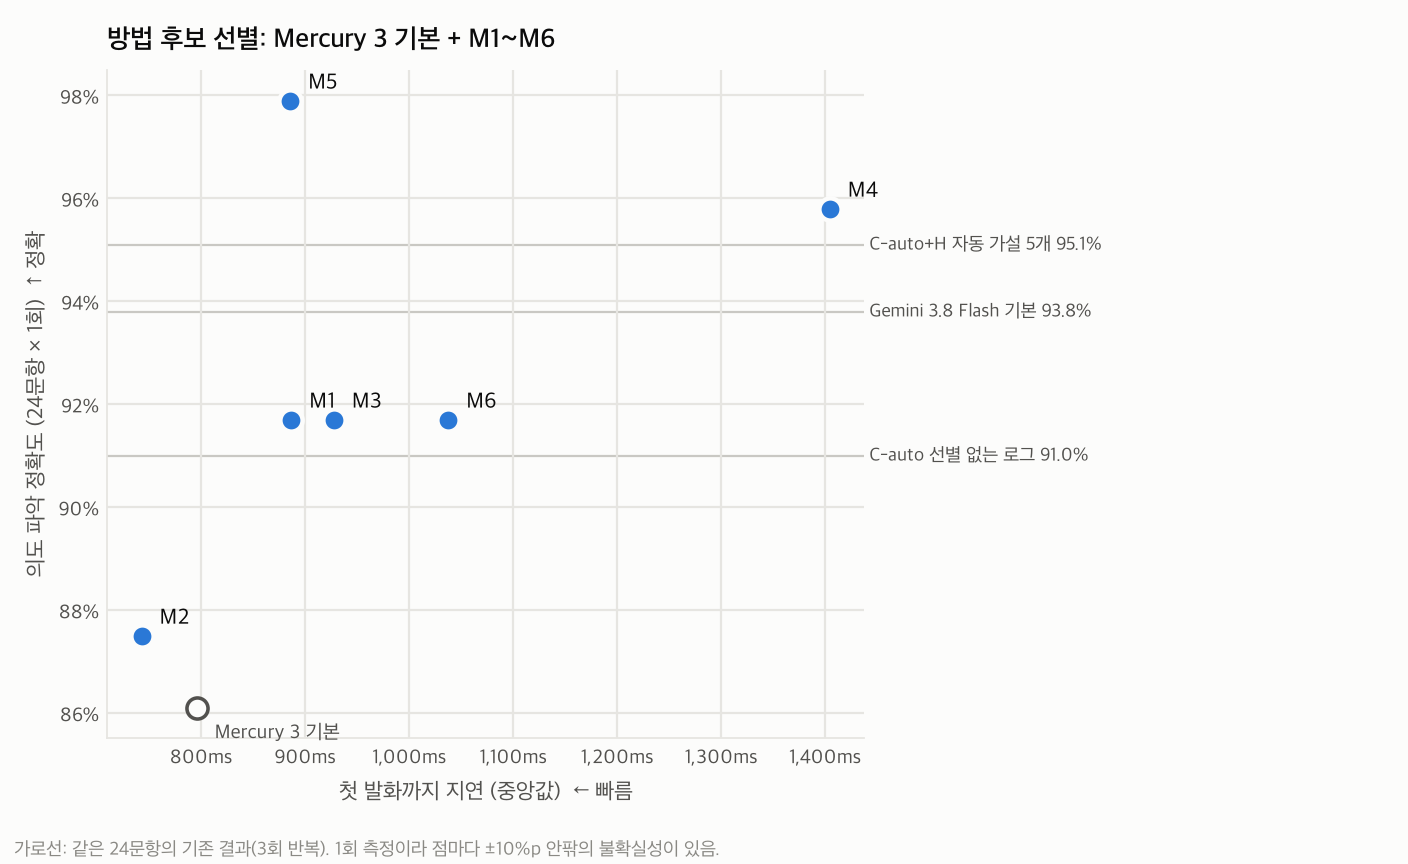
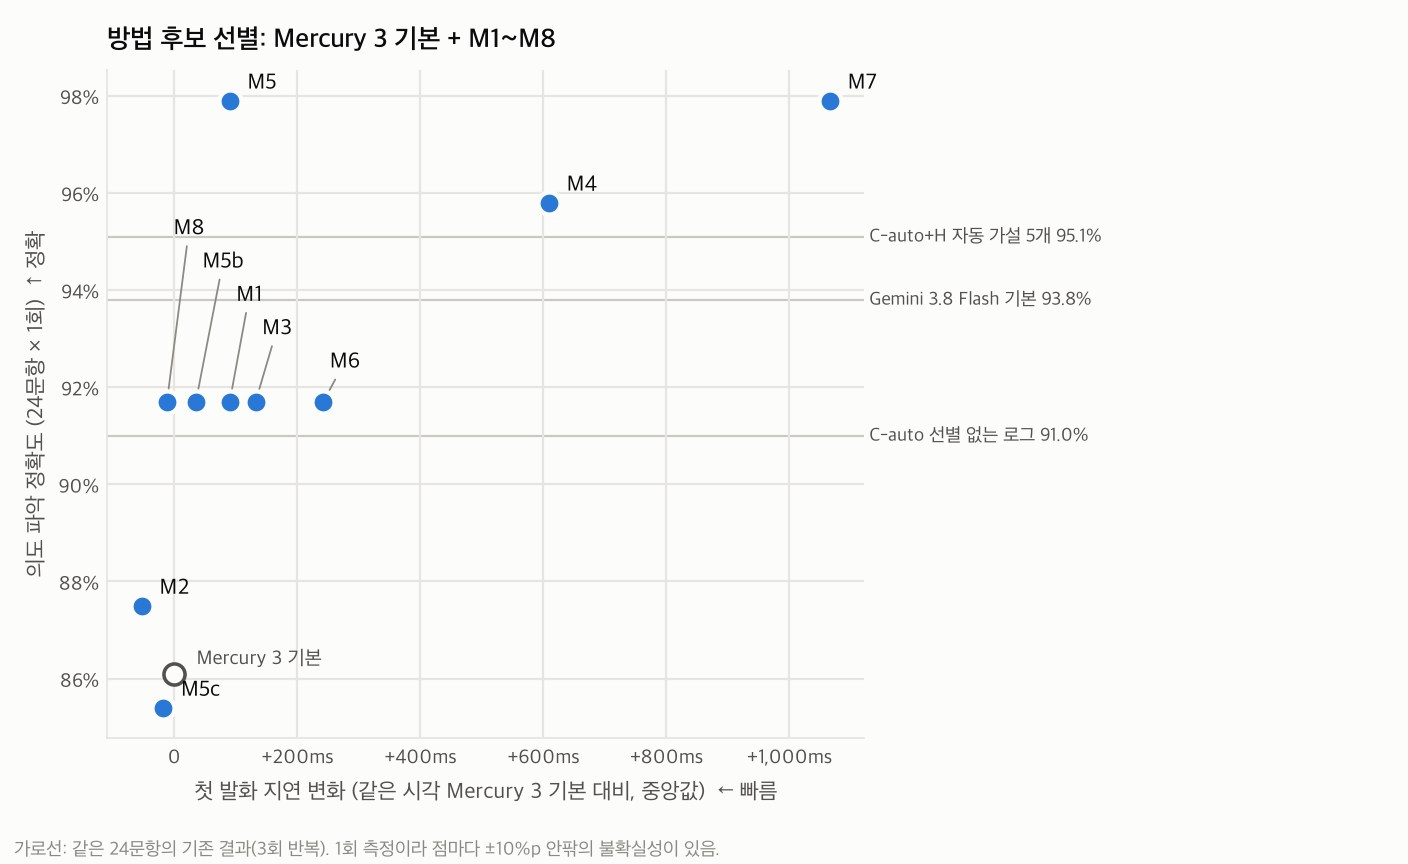
Add screening batch 2: ten hidden interpretations, silent interpretations, cheap and fast candidates for M5
Latency is compared with a same-run Mercury 3 control per batch.

diff --git a/vib/report.py b/vib/report.py
@@ -743,11 +743,19 @@ SCREEN_DESC = {
     "M4": ("발화 후 해석 3~5개 쓰고 골라 답하기 (숨김)", None, "발화 시점"),
     "M5": ("M1 후보 중 '이 의도면 이렇게 말했을까'로 고르기", "m1_situations", "발화 전 + 발화 시점"),
     "M6": ("발화 앞 절반으로 가설 5개 (Mercury 3 instant)", "m6_prefix", "말하는 중"),
+    "M7": ("발화 후 해석 10개 쓰고 골라 답하기 (숨김)", None, "발화 시점"),
+    "M8": ("발화 후 해석 10개를 속으로만 떠올리고 답하기", None, "발화 시점"),
+    "M5b": ("M2 후보(싼 생성기) 중 고르기", "m2_situations", "발화 전 + 발화 시점"),
+    "M5c": ("M6 후보(말하는 중, 빠른 생성기) 중 고르기", "m6_prefix", "말하는 중 + 발화 시점"),
 }
+HIDDEN_CODES = {"M4", "M7"}  # <해석> 을 닫지 않으면 형식 실패
+# 지연 대조군: 묶음마다 같은 실행에서 다시 잰 Mercury 3 기본 (results/screen/<폴더>/mercury.A1.jsonl)
+SCREEN_BATCH = {c: "latency_control" for c in ("M1", "M2", "M3", "M4", "M5", "M6")} | \
+    {c: "latency_control_b2" for c in ("M7", "M8", "M5b", "M5c")}
 
 
 def screening() -> None:
-    """4차 선별 실험(M1~M6, Mercury 3 기본, 24문항 × 1회)을 같은 24문항의 기존 기준선과 비교한다."""
+    """4차 선별 실험(M1~M8, Mercury 3 기본, 24문항 × 1회)을 같은 24문항의 기존 기준선과 비교한다."""
     sdir = RES / "screen"
     if not (sdir / "raw").exists():
         return
@@ -765,8 +773,11 @@ def screening() -> None:
             "C-auto+H 자동 가설 5개": "mercury.A1+CH", "Gemini 3.8 Flash 기본": "gemini38.A1"}
     ref_item = {name: per_item(RES / "judged" / f"{arm}.jsonl") for name, arm in refs.items()}
     base = ref_item["Mercury 3 기본"]
-    ctl = [r["e2e_first_ms"] for r in _jsonl(sdir / "latency_control" / "mercury.A1.jsonl") if not r.get("error")]
-    ctl_p50 = _pct(ctl, 0.5)
+    ctl_p50 = {}
+    for batch in sorted(set(SCREEN_BATCH.values())):
+        p = sdir / batch / "mercury.A1.jsonl"
+        if p.exists():
+            ctl_p50[batch] = _pct([r["e2e_first_ms"] for r in _jsonl(p) if not r.get("error")], 0.5)
 
     def gen_stats(name: str | None) -> tuple[float | None, float | None, float]:
         if not name:
@@ -779,6 +790,8 @@ def screening() -> None:
 
     rows = []
     for code, (desc, gen, when) in SCREEN_DESC.items():
+        if not (sdir / "judged" / f"mercury.A1+{code}.jsonl").exists() or SCREEN_BATCH[code] not in ctl_p50:
+            continue
         raw = [r for r in _jsonl(sdir / "raw" / f"mercury.A1+{code}.jsonl") if not r.get("error")]
         a = per_item(sdir / "judged" / f"mercury.A1+{code}.jsonl")
         m, lo, hi, _ = _boot_diff({k: a[k] - base[k] for k in ids})
@@ -789,14 +802,18 @@ def screening() -> None:
         rows.append({
             "code": code, "desc": desc, "when": when, "acc": round(statistics.mean(a[k] for k in ids) * 100, 1),
             "d_base": round(m * 100, 1), "lo": round(lo * 100, 1), "hi": round(hi * 100, 1), "d_cauto": round(mc * 100, 1),
-            "first_p50": round(p50), "d_first": round(p50 - ctl_p50), "gen_p50": None if g50 is None else round(g50),
+            "first_p50": round(p50), "d_first": round(p50 - ctl_p50[SCREEN_BATCH[code]]),
+            "gen_p50": None if g50 is None else round(g50),
             "gen_p90": None if g90 is None else round(g90), "cost_1k": round((resp_cost + gcost) * 1000, 2),
-            "format_fail": sum(1 for r in raw if code == "M4" and r.get("hidden") is None),
+            "format_fail": sum(1 for r in raw if code in HIDDEN_CODES and r.get("hidden") is None),
         })
+    batches = {"latency_control": "M1~M6", "latency_control_b2": "M7·M8·M5b·M5c"}
     lines = [
         f"Mercury 3 기본 응답 모델, 24문항 × 1회 (간접 요청·전제·음성 인식 오류 6문항 제외). 같은 24문항 기준값: "
         + ", ".join(f"{n} {statistics.mean(v[k] for k in ids) * 100:.1f}%" for n, v in ref_item.items())
-        + f". 같은 시각 기준 첫 발화 p50 {ctl_p50:,.0f}ms. 1회 측정이라 신뢰구간이 넓은 선별용 결과입니다.",
+        + ". 첫 발화 변화는 묶음마다 같은 실행에서 다시 잰 Mercury 3 기본 대비이며, 그 p50 은 "
+        + ", ".join(f"{batches[b]} 묶음 {v:,.0f}ms" for b, v in ctl_p50.items())
+        + " 입니다. 1회 측정이라 신뢰구간이 넓은 선별용 결과입니다.",
         "",
         "| 방법 | 계산 시점 | 정확도 | 기본 대비 (95% CI) | 선별 없는 로그 대비 | 첫 발화 p50 (변화) | 생성 시간 p50 / p90 | 1,000턴당 비용 |",
         "|---|---|---|---|---|---|---|---|",
@@ -824,7 +841,7 @@ def chart_screen() -> None:
     rows = list(csv.DictReader(open(sdir / "summary.csv", encoding="utf-8")))
     head = (sdir / "summary.md").read_text(encoding="utf-8").splitlines()[0]
     refs = dict(re.findall(r"(Mercury 3 기본|C-auto 선별 없는 로그|C-auto\+H 자동 가설 5개|Gemini 3.8 Flash 기본) ([\d.]+)%", head))
-    ctl = float(re.search(r"첫 발화 p50 ([\d,]+)ms", head).group(1).replace(",", ""))
+    ctl = 0.0  # 가로축은 묶음별 같은 시각 기본 설정 대비 변화
     plt = _setup_mpl()
     fig, ax = plt.subplots(figsize=(8.8, 5.4))
     for name, val in refs.items():
@@ -834,18 +851,33 @@ def chart_screen() -> None:
         ax.text(1.0, float(val), f" {name} {val}%", transform=ax.get_yaxis_transform(), va="center", ha="left",
                 fontsize=8.5, color=INK2, clip_on=False)
     ax.scatter([ctl], [float(refs["Mercury 3 기본"])], s=90, color=SURFACE, edgecolors=INK2, linewidths=1.6, zorder=3)
-    ax.annotate("Mercury 3 기본", (ctl, float(refs["Mercury 3 기본"])), xytext=(8, -14), textcoords="offset points",
+    ax.annotate("Mercury 3 기본", (ctl, float(refs["Mercury 3 기본"])), xytext=(10, 4), textcoords="offset points",
                 fontsize=9, color=INK2)
-    for r in rows:
-        x, y = float(r["first_p50"]), float(r["acc"])
-        ax.scatter([x], [y], s=100, color=ACCENT, edgecolors=SURFACE, linewidths=2, zorder=4)
-        ax.annotate(r["code"], (x, y), xytext=(8, 5), textcoords="offset points", fontsize=10, color=INK, zorder=5)
-    ax.set_xlabel("첫 발화까지 지연 (중앙값)  ← 빠름", fontsize=10)
+    # 정확도가 같고 지연이 가까운 점들은 라벨을 위로 쌓고 가는 선으로 잇는다 (왼쪽 점일수록 위, 선이 라벨을 지나지 않게)
+    pts = sorted(rows, key=lambda r: (float(r["acc"]), float(r["d_first"])))
+    clusters: list[list[dict]] = []
+    for r in pts:
+        last = clusters[-1][-1] if clusters else None
+        if last and float(last["acc"]) == float(r["acc"]) and float(r["d_first"]) - float(last["d_first"]) < 150:
+            clusters[-1].append(r)
+        else:
+            clusters.append([r])
+    for group in clusters:
+        for rank, r in enumerate(group):
+            x, y = float(r["d_first"]), float(r["acc"])
+            ax.scatter([x], [y], s=100, color=ACCENT, edgecolors=SURFACE, linewidths=2, zorder=4)
+            if len(group) == 1:
+                ax.annotate(r["code"], (x, y), xytext=(8, 5), textcoords="offset points", fontsize=10, color=INK, zorder=5)
+            else:
+                ax.annotate(r["code"], (x, y), xytext=(3, 12 + 15 * (len(group) - 1 - rank)), textcoords="offset points",
+                            fontsize=10, color=INK, ha="left", va="bottom", zorder=5,
+                            arrowprops=dict(arrowstyle="-", color=MUTED, lw=0.8, shrinkA=0, shrinkB=6))
+    ax.set_xlabel("첫 발화 지연 변화 (같은 시각 Mercury 3 기본 대비, 중앙값)  ← 빠름", fontsize=10)
     ax.set_ylabel("의도 파악 정확도 (24문항 × 1회)  ↑ 정확", fontsize=10)
     ax.yaxis.set_major_formatter(plt.FuncFormatter(lambda v, _: f"{v:g}%"))
-    ax.xaxis.set_major_formatter(plt.FuncFormatter(lambda v, _: f"{v:,.0f}ms"))
+    ax.xaxis.set_major_formatter(plt.FuncFormatter(lambda v, _: f"{v:+,.0f}ms" if v else "0"))
     ax.tick_params(length=0, labelsize=9)
-    ax.set_title("방법 후보 선별: Mercury 3 기본 + M1~M6", fontsize=12, loc="left", pad=10, fontweight="semibold")
+    ax.set_title("방법 후보 선별: Mercury 3 기본 + M1~M8", fontsize=12, loc="left", pad=10, fontweight="semibold")
     fig.text(0.01, 0.01, "가로선: 같은 24문항의 기존 결과(3회 반복). 1회 측정이라 점마다 ±10%p 안팎의 불확실성이 있음.",
              fontsize=8.5, color=MUTED)
     fig.tight_layout(rect=(0, 0.04, 0.8, 1))

diff --git a/vib/run.py b/vib/run.py
@@ -115,7 +115,7 @@ def run_one(arm: Arm, item: dict, rep: int) -> dict:
         if mode == "auto_hyp":
             hyps = json.loads(HYPS.read_text(encoding="utf-8"))["hypotheses"][item["id"]]
             extra += "\n\n" + prompts.hypotheses_block(hyps)
-    elif mode in ("m1", "m2", "m3", "m4", "m5", "m6"):
+    elif mode in ("m1", "m2", "m3", "m4", "m5", "m6", "m7", "m8", "m5b", "m5c"):
         profile = json.loads(PROFILE.read_text(encoding="utf-8"))
         log = json.loads(AUTO.read_text(encoding="utf-8"))["logs"][item["id"]]
         base = prompts.auto_context(profile, log)
@@ -125,8 +125,13 @@ def run_one(arm: Arm, item: dict, rep: int) -> dict:
             extra = prompts.facts_block(profile, _screen("m3_facts")[item["id"]])
         elif mode == "m4":
             extra = base + "\n\n" + prompts.INTERPRET_INLINE
-        elif mode == "m5":  # M1 의 상황 10개를 후보로 쓰고, 발화를 보고 고른다
-            extra = base + "\n\n" + prompts.candidates_block(_screen("m1_situations")[item["id"]])
+        elif mode == "m7":
+            extra = base + "\n\n" + prompts.INTERPRET_INLINE_10
+        elif mode == "m8":
+            extra = base + "\n\n" + prompts.INTERPRET_SILENT_10
+        elif mode in ("m5", "m5b", "m5c"):  # 미리 만든 후보를 두고 발화를 보고 고른다 (후보 출처만 다름)
+            source = {"m5": "m1_situations", "m5b": "m2_situations", "m5c": "m6_prefix"}[mode]
+            extra = base + "\n\n" + prompts.candidates_block(_screen(source)[item["id"]])
         else:  # m6: 발화 앞부분으로 만든 가설
             extra = base + "\n\n" + prompts.hypotheses_block(_screen("m6_prefix")[item["id"]])
     elif mode == "context_checklist":
@@ -201,7 +206,7 @@ def main() -> None:
     ap.add_argument("--dry-run", action="store_true")
     ap.add_argument("--check", action="store_true")
     ap.add_argument("--no-warmup", action="store_true")
-    ap.add_argument("--screen", action="store_true", help="4차 선별 실험 (M1~M6, 24문항)")
+    ap.add_argument("--screen", action="store_true", help="4차 선별 실험 (M1~M8, 24문항)")
     args = ap.parse_args()
 
     load_dotenv(ROOT / ".env", override=True)

diff --git a/vib/prompts.py b/vib/prompts.py
@@ -115,6 +115,21 @@ INTERPRET_INLINE = (
 )
 HIDE_TAG = "</해석>"
 
+# M7: M4 와 같은 지시에서 해석 개수만 10개로 늘린다 (개수 효과만 보려고 축·형식은 그대로 둔다).
+INTERPRET_INLINE_10 = (
+    "답하기 전에 사용자의 이번 말이 뜻할 수 있는 해석을 10개 서로 다른 축으로 짧게 쓴다 (무엇을 해 달라는지, 감정 표현인지, "
+    "무엇을 가리키는지, 직전 대화에 대한 수락·거절·변경인지). 해석과 선택은 모두 <해석> 안에 쓰고, </해석> 뒤에는 사용자에게 "
+    "할 말만 쓴다. <해석> 부분은 사용자에게 들리지 않는다. 형식:\n"
+    "<해석>\n1) …\n2) …\n…\n10) …\n선택: …\n</해석>\n(사용자에게 할 말)"
+)
+
+# M8: 해석 10개를 글로 쓰지 않고 속으로만 떠올리게 한다 (응답 모델의 추론 토큰 안에서 처리).
+INTERPRET_SILENT_10 = (
+    "답하기 전에 속으로만, 사용자의 이번 말이 뜻할 수 있는 해석을 10개 서로 다른 축으로 떠올린다 (무엇을 해 달라는지, 감정 "
+    "표현인지, 무엇을 가리키는지, 직전 대화에 대한 수락·거절·변경인지). 그중 가장 그럴듯한 하나에 맞춰 답한다. 떠올린 해석과 "
+    "선택 과정은 말하지 않고 사용자에게 할 말만 한다."
+)
+
 # M5: 미리 만든 후보 의도 중에서, 실제 발화를 보고 고른다 (RSA 의 '이 의도라면 이렇게 말했을까').
 def candidates_block(hyps: list[dict]) -> str:
     lines = ["[미리 만든 후보 상황 (사실이 아님)]"]

diff --git a/vib/arms.py b/vib/arms.py
@@ -180,8 +180,9 @@ def fake_arms() -> dict[str, Arm]:
     }
 
 
-# 4차 선별 실험: Mercury 3 기본(A1) 응답 모델에 M1~M6 을 붙인다 (24문항 × 1회)
-SCREEN_METHODS = ["M1", "M2", "M3", "M4", "M5", "M6"]
+# 4차 선별 실험: Mercury 3 기본(A1) 응답 모델에 M1~M8 을 붙인다 (24문항 × 1회)
+# M5b·M5c 는 M5 의 '후보 중 고르기' 지시에 싼 후보(M2 목록)·빠른 후보(M6 목록)를 넣은 것
+SCREEN_METHODS = ["M1", "M2", "M3", "M4", "M5", "M6", "M7", "M8", "M5b", "M5c"]
 
 
 def screen_arms() -> dict[str, Arm]:
@@ -189,7 +190,7 @@ def screen_arms() -> dict[str, Arm]:
     arms = {}
     for code in SCREEN_METHODS:
         params = dict(m["A1"])
-        if code == "M4":
+        if code in ("M4", "M7"):
             params["hide_until"] = "</해석>"  # 해석 부분은 들리지 않고, 첫 발화는 그 뒤부터 잰다
         arms[f"mercury.A1+{code}"] = Arm(f"mercury.A1+{code}", "mercury", code, m["provider"], m["model"], params, [m["key"]],
                                          extra={"mode": code.lower(), "base_arm": "mercury.A1"})

diff --git a/results/screen/summary.md b/results/screen/summary.md
@@ -1,4 +1,4 @@
-Mercury 3 기본 응답 모델, 24문항 × 1회 (간접 요청·전제·음성 인식 오류 6문항 제외). 같은 24문항 기준값: Mercury 3 기본 86.1%, C-auto 선별 없는 로그 91.0%, C-auto+H 자동 가설 5개 95.1%, Gemini 3.8 Flash 기본 93.8%. 같은 시각 기준 첫 발화 p50 796ms. 1회 측정이라 신뢰구간이 넓은 선별용 결과입니다.
+Mercury 3 기본 응답 모델, 24문항 × 1회 (간접 요청·전제·음성 인식 오류 6문항 제외). 같은 24문항 기준값: Mercury 3 기본 86.1%, C-auto 선별 없는 로그 91.0%, C-auto+H 자동 가설 5개 95.1%, Gemini 3.8 Flash 기본 93.8%. 첫 발화 변화는 묶음마다 같은 실행에서 다시 잰 Mercury 3 기본 대비이며, 그 p50 은 M1~M6 묶음 796ms, M7·M8·M5b·M5c 묶음 828ms 입니다. 1회 측정이라 신뢰구간이 넓은 선별용 결과입니다.
 
 | 방법 | 계산 시점 | 정확도 | 기본 대비 (95% CI) | 선별 없는 로그 대비 | 첫 발화 p50 (변화) | 생성 시간 p50 / p90 | 1,000턴당 비용 |
 |---|---|---|---|---|---|---|---|
@@ -8,3 +8,7 @@ Mercury 3 기본 응답 모델, 24문항 × 1회 (간접 요청·전제·음성 
 | M4 발화 후 해석 3~5개 쓰고 골라 답하기 (숨김) (형식 실패 1건) | 발화 시점 | 95.8% | +9.7%p (-0.7–22.2) | +4.9%p | 1,405ms (+609) | – | $0.27 |
 | M5 M1 후보 중 '이 의도면 이렇게 말했을까'로 고르기 | 발화 전 + 발화 시점 | 97.9% | +11.8%p (2.8–22.9) | +6.9%p | 886ms (+90) | 18.1s / 22.5s | $7.65 |
 | M6 발화 앞 절반으로 가설 5개 (Mercury 3 instant) | 말하는 중 | 91.7% | +5.6%p (-6.2–18.1) | +0.7%p | 1,038ms (+242) | 1.2s / 1.4s | $0.36 |
+| M7 발화 후 해석 10개 쓰고 골라 답하기 (숨김) (형식 실패 2건) | 발화 시점 | 97.9% | +11.8%p (0.7–24.3) | +6.9%p | 1,895ms (+1,066) | – | $0.33 |
+| M8 발화 후 해석 10개를 속으로만 떠올리고 답하기 | 발화 시점 | 91.7% | +5.6%p (0.7–13.2) | +0.7%p | 816ms (-12) | – | $0.15 |
+| M5b M2 후보(싼 생성기) 중 고르기 | 발화 전 + 발화 시점 | 91.7% | +5.6%p (0.7–13.2) | +0.7%p | 863ms (+35) | 5.3s / 8.3s | $1.19 |
+| M5c M6 후보(말하는 중, 빠른 생성기) 중 고르기 | 말하는 중 + 발화 시점 | 85.4% | -0.7%p (-11.8–9.7) | -5.6%p | 811ms (-18) | 1.2s / 1.4s | $0.40 |

diff --git a/docs/methodology.md b/docs/methodology.md
@@ -132,5 +132,7 @@ A4 는 요청 범위 밖이지만, A3 의 정확도 향상이 "분석을 따로 
 - 발화 전 생성물(M1·M2·M3·M6)은 응답 실행 전에 `data/screen/` 에 고정했습니다. M1·M2·M3 생성기는 발화와 정답을 보지 않고, M6 은 발화 앞 절반(단어 기준, 올림)만 봅니다. 한 단어짜리 발화는 앞부분이 곧 전체입니다.
 - M4 는 응답 모델이 `<해석> … </해석>` 안에 해석을 쓰고 그 뒤에 답합니다. 해석 부분은 들리지 않는다고 보고, 첫 발화는 `</해석>` 뒤 첫 글자가 도착한 시점입니다. 표지를 닫지 않으면 전부 들린 것으로 기록합니다(형식 실패).
 - M5 는 M1 의 상황 10개를 후보로 주고, 실제 발화를 보고 "이 상황에 있는 사람이 이렇게 말했을까"로 하나를 고르게 합니다(RSA 의 청자 추론을 프롬프트로 옮긴 것). M1 과 입력은 같고 지시만 다릅니다.
-- 비용에는 생성기 호출 비용을 턴마다 더합니다. M5 는 M1 생성 비용을 포함합니다.
+- 추가 묶음(M7·M8·M5b·M5c)은 첫 묶음 뒤에 따로 실행했습니다. M7 은 M4 지시에서 해석 개수만 10개로 바꾸고 축과 형식은 그대로 둡니다. M8 은 같은 10개를 글로 쓰지 않고 속으로만 떠올리게 합니다. M5b·M5c 는 M5 의 고르기 지시는 그대로 두고 후보만 M2 목록(싼 생성기, 10개)과 M6 목록(말하는 중 빠른 생성기, 5개)으로 바꿉니다. 새 후보를 만들지 않고 이미 고정한 목록을 씁니다.
+- 지연은 묶음마다 같은 실행에서 다시 잰 Mercury 3 기본(각 24회, 같은 스레드에서 조건 순서를 돌려 섞음)과 비교합니다(`results/screen/latency_control`, `latency_control_b2`). 표와 차트의 첫 발화 변화는 자기 묶음 대조군 대비입니다.
+- 비용에는 생성기 호출 비용을 턴마다 더합니다. M5 는 M1 생성 비용을, M5b 는 M2, M5c 는 M6 생성 비용을 포함합니다.
 - 한계: 1회 측정이라 문항 단위 잡음이 큽니다. 5%p 안쪽 차이는 판단에 쓰지 않습니다.

diff --git a/docs/related-work.md b/docs/related-work.md
@@ -73,5 +73,5 @@
 | M5 RSA식 선택: 발화 전 후보 의도 목록 + 발화 시점에 "이 의도면 이렇게 말했을까"로 고름 | RSA | 전 + 발화 시점 | 소폭 | 후보는 미리, 선택은 빠르게 |
 | M6 말하는 동안 앞부분으로 가설 생성 | Endpoint anticipation, PredGen | 발화 중 | 없음 (생성이 말하는 시간 안에 끝나야 함) | 직전 비서 발화 뒤 가설이 늦는 문제 |
 
-**4차 선별 결과 (Mercury 3 기본, 24문항 × 1회)**: 유망 M5(후보 중 고르기, 97.9%)·M4(발화 후 숨긴 해석, 95.8%, +609ms), 보류 M3·M6(91.7%), 탈락 M1·M2(상황 10개, 91.7%·87.5%). M6 생성은 1.2초로 가장 빨랐지만 발화 뒤 절반이 짧아, 말이 끝나기 전에 생성이 끝나는 문항은 24개 중 7~11개입니다(초당 5~7음절 가정, 끝 감지 대기 제외). 자세한 표는 README 의 "방법 후보 선별 (4차)".
+**4차 선별 결과 (Mercury 3 기본, 24문항 × 1회)**: 유망 M5(후보 중 고르기, 97.9%)·M4(발화 후 숨긴 해석, 95.8%, +609ms), 보류 M3·M6(91.7%), 탈락 M1·M2(상황 10개, 91.7%·87.5%). 추가 시험: 숨긴 해석을 10개로 늘린 M7 은 97.9% 지만 M4 와 1문항 차이에 첫 발화 +1,066ms, 속으로만 떠올리게 한 M8 은 효과 없음(91.7%, 추론 토큰 불변). M5 의 고르기 지시에 싼 후보(M5b, 91.7%)나 빠른 후보(M5c, 85.4%)를 넣으면 이득이 사라져, M5 의 효과는 강한 모델 후보에서 옵니다. M6 생성은 1.2초로 가장 빨랐지만 발화 뒤 절반이 짧아, 말이 끝나기 전에 생성이 끝나는 문항은 24개 중 7~11개입니다(초당 5~7음절 가정, 끝 감지 대기 제외). 자세한 표는 README 의 "방법 후보 선별 (4차)".
 
